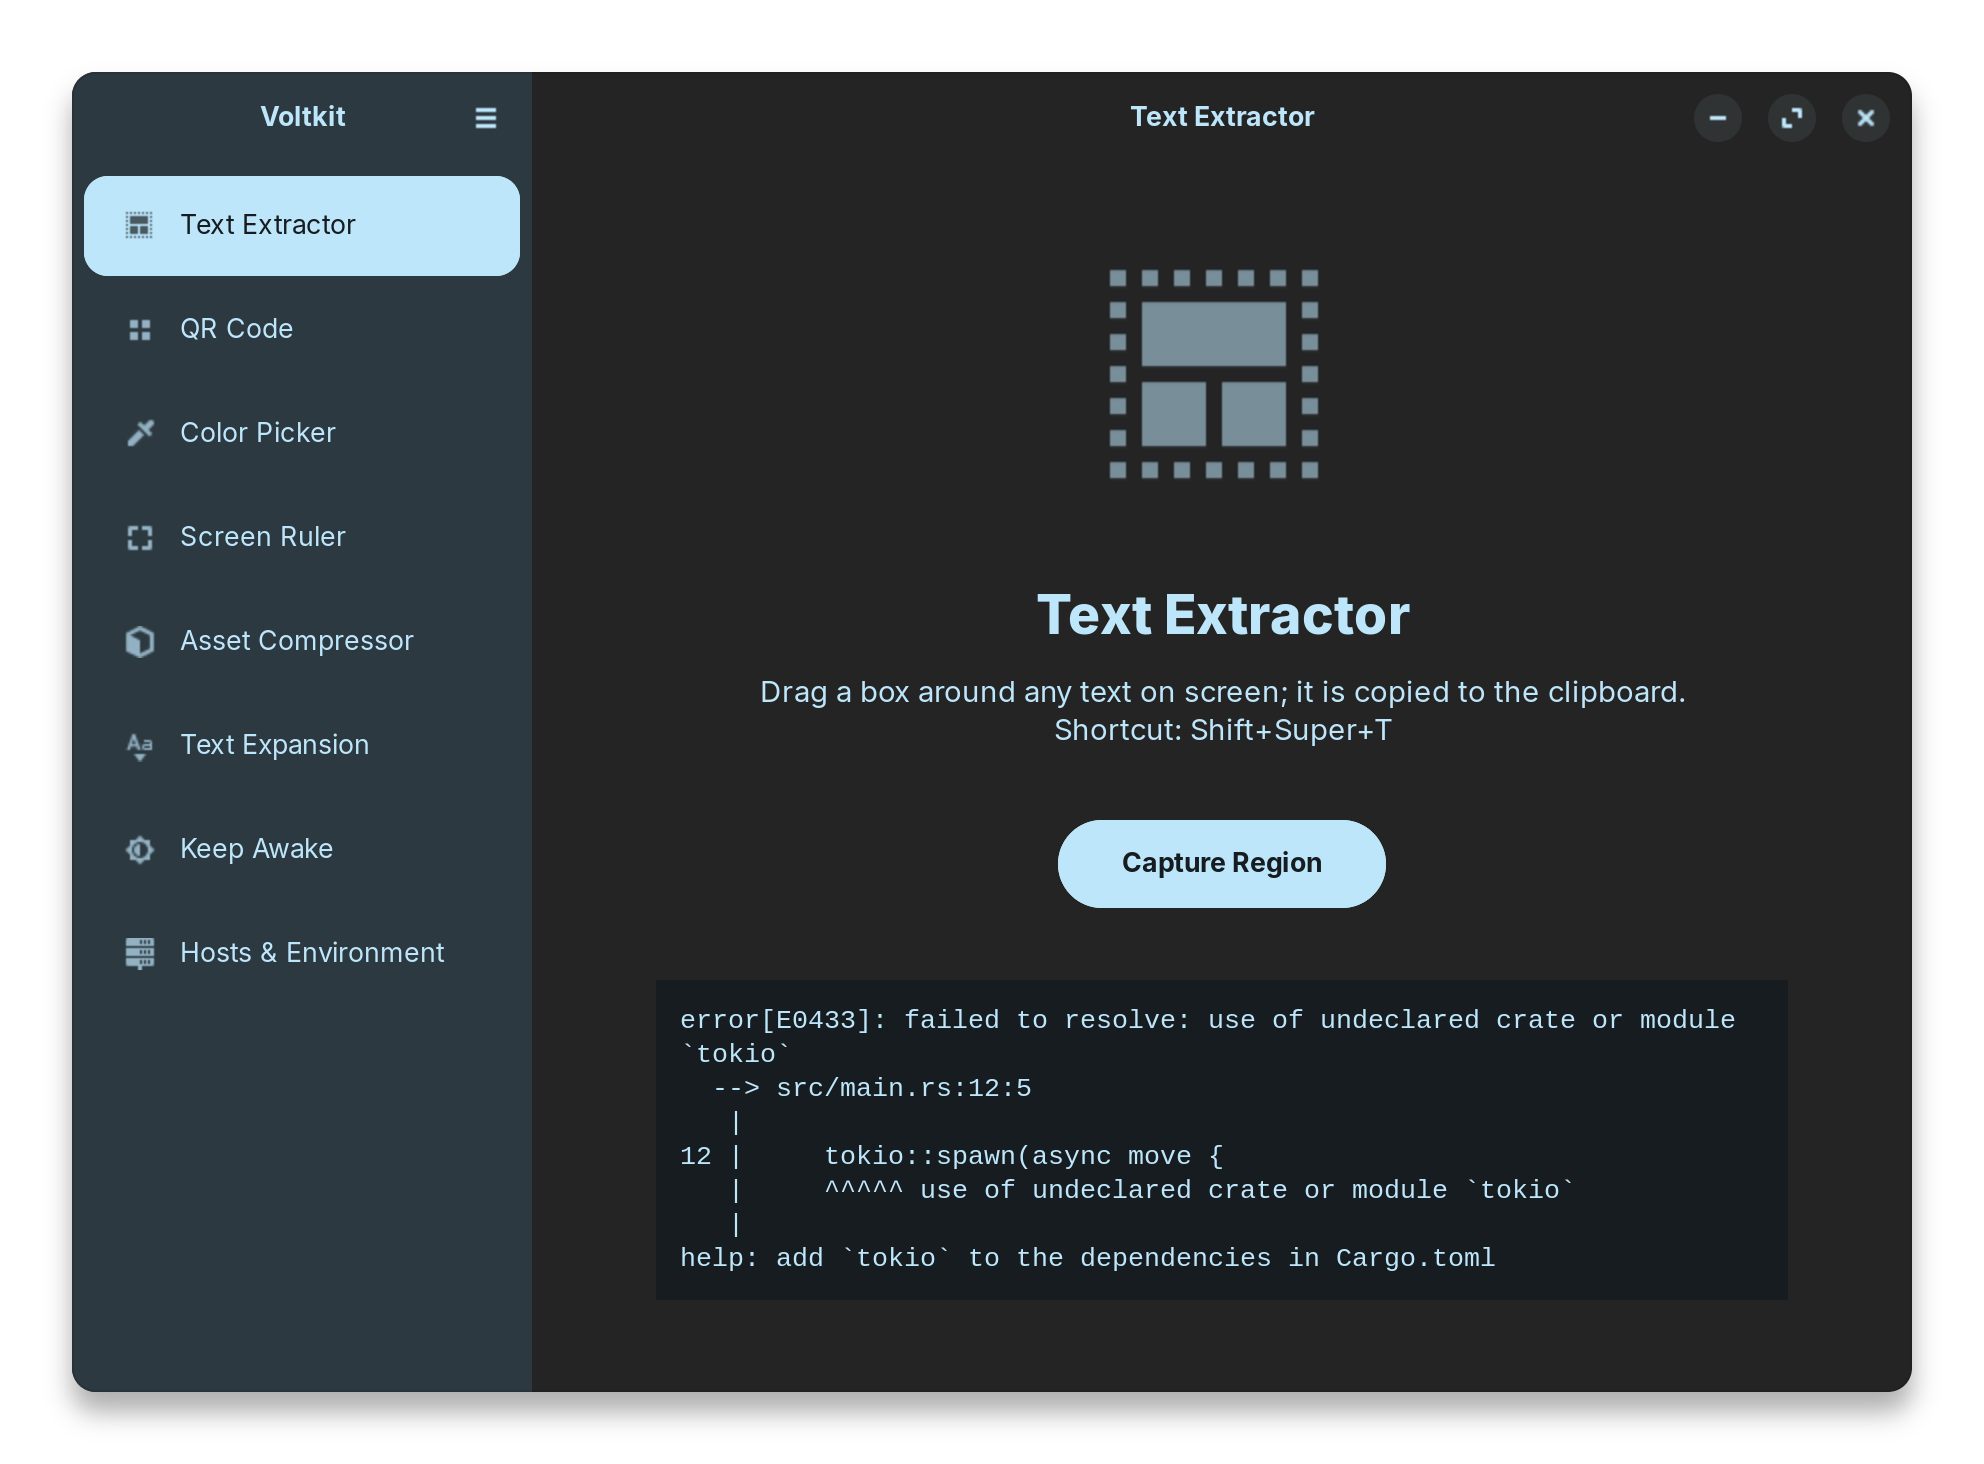
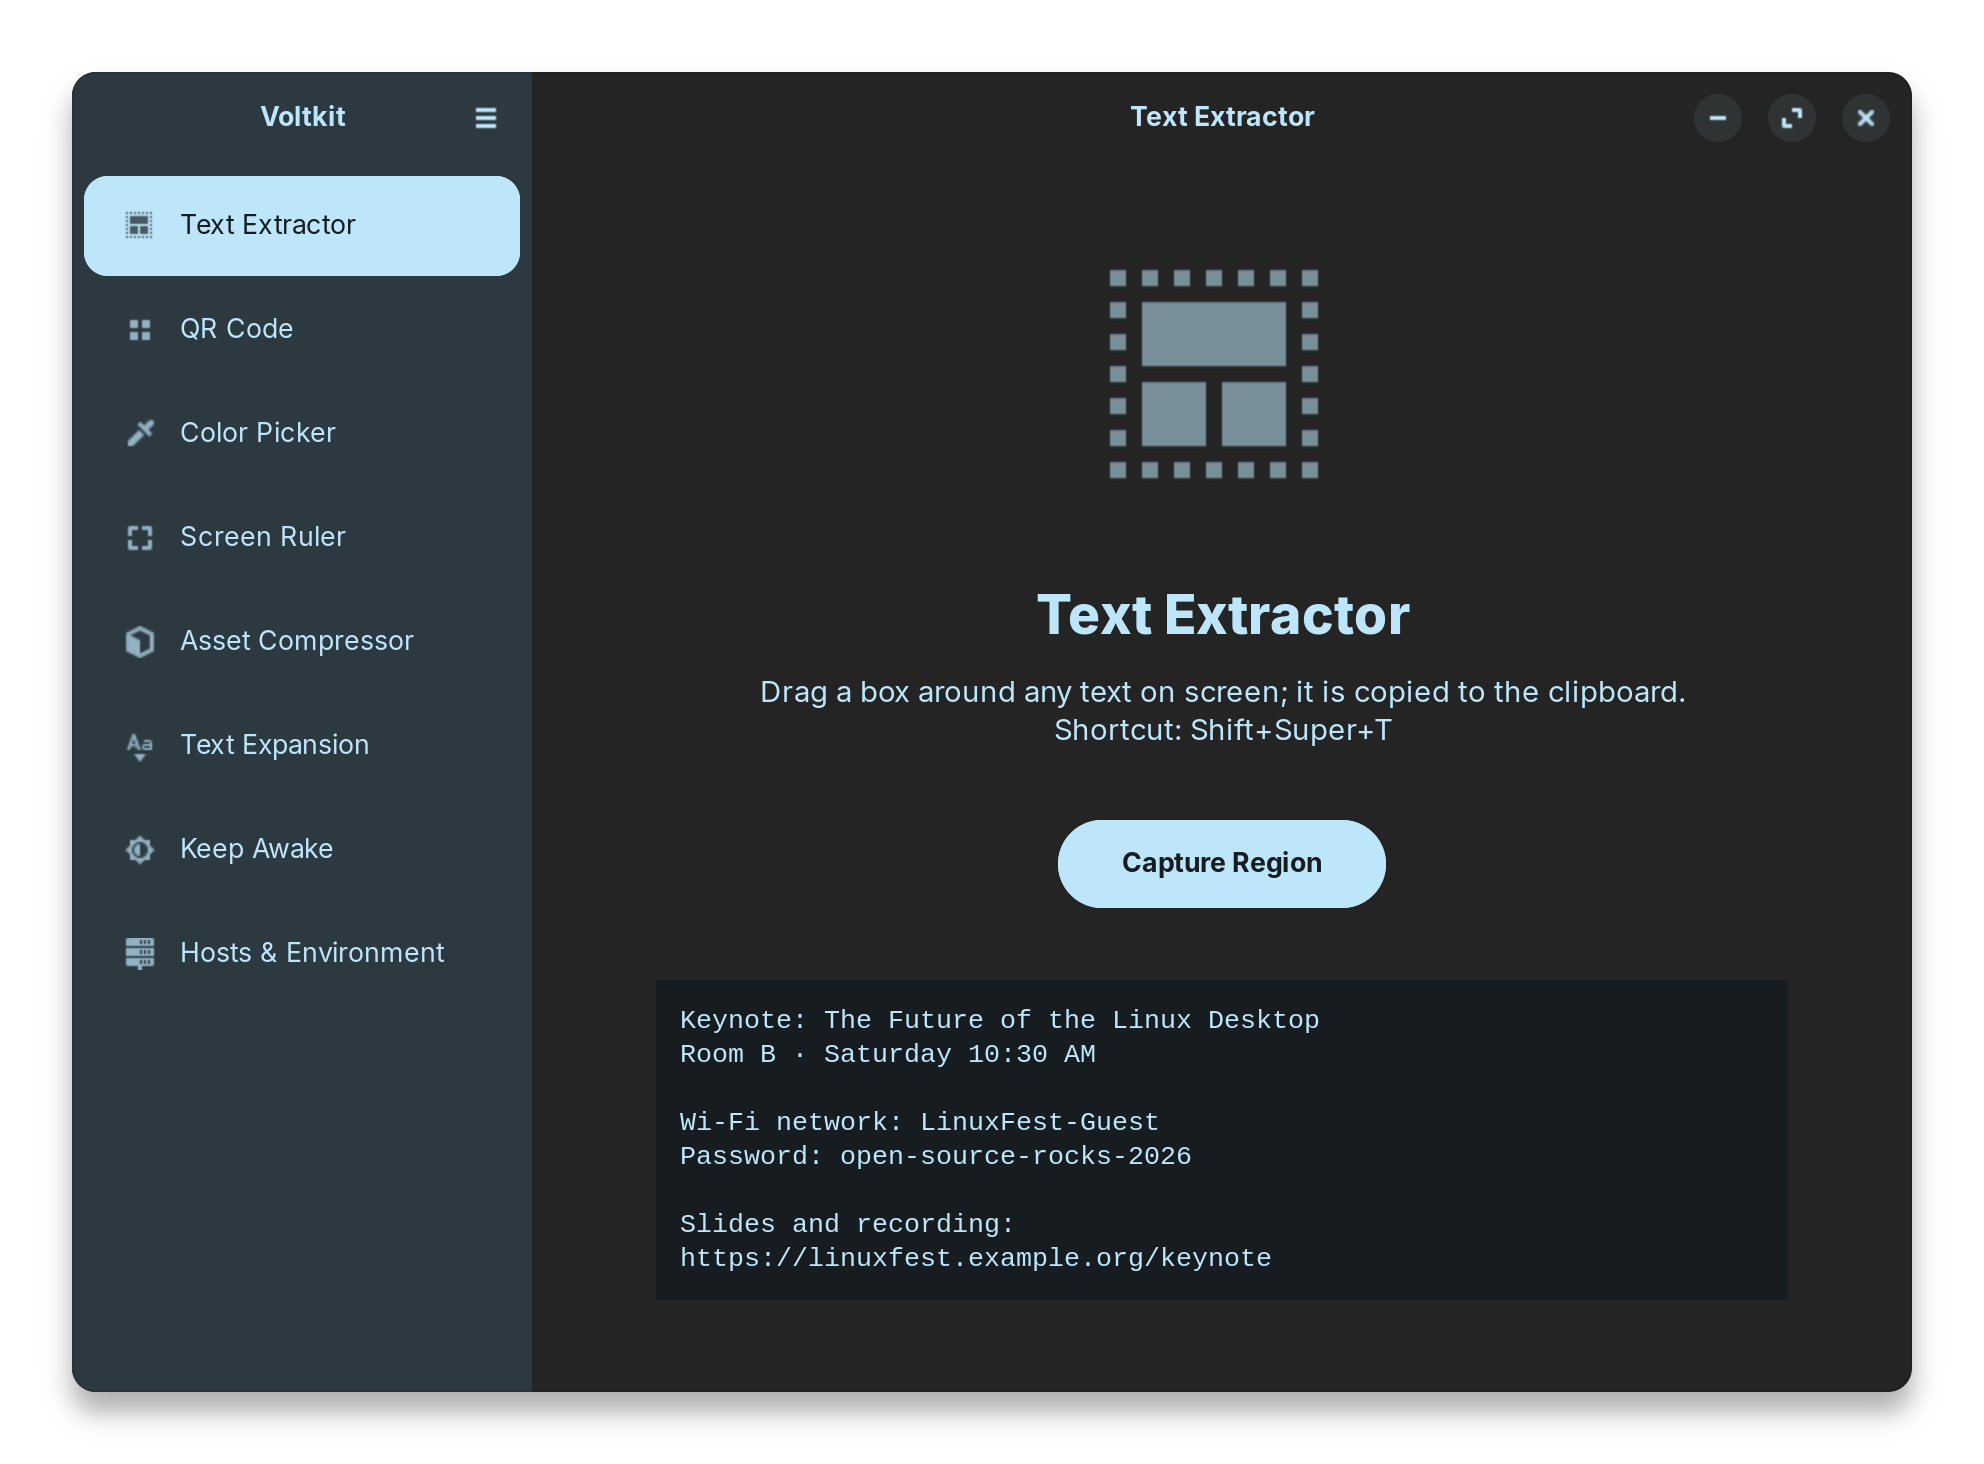
README: friendlier Text Extractor demo
The Text Extractor screenshot showed a made-up compiler error with file
paths, which read like someone's private work. It now shows text read
from a fictional conference slide (a Wi-Fi password and an example.org
link), which also shows why screen OCR is handy.

diff --git a/src/screenshots.rs b/src/screenshots.rs
@@ -20,14 +20,17 @@ const SCALE: f32 = 2.0;
 /// Time for layout, icons and the theme switch to settle before a capture.
 const SETTLE: Duration = Duration::from_millis(600);
 
+/// Text "read" from a photo of a conference slide: clearly fictional, and the
+/// kind of thing people actually want to copy (a password, a link).
 const OCR_DEMO: &str = "\
-error[E0433]: failed to resolve: use of undeclared crate or module `tokio`
-  --> src/main.rs:12:5
-   |
-12 |     tokio::spawn(async move {
-   |     ^^^^^ use of undeclared crate or module `tokio`
-   |
-help: add `tokio` to the dependencies in Cargo.toml";
+Keynote: The Future of the Linux Desktop
+Room B · Saturday 10:30 AM
+
+Wi-Fi network: LinuxFest-Guest
+Password: open-source-rocks-2026
+
+Slides and recording:
+https://linuxfest.example.org/keynote";
 
 /// File name, size before, size after, as measured on test files.
 const COMPRESS_DEMO: &[(&str, &str)] = &[

diff --git a/README.md b/README.md
@@ -41,13 +41,13 @@ hotkeys:
 
 ### 🔍 Copy text from anything on screen
 
-Error messages in a screenshot, code in a video tutorial, text in an image: press
+A Wi-Fi password on a conference slide, a command in a video tutorial, an error in a screenshot: press
 <kbd>Super</kbd>+<kbd>Shift</kbd>+<kbd>T</kbd>, drag a box, and paste. Powered by Tesseract, with support for
 [100+ languages](https://tesseract-ocr.github.io/tessdoc/Data-Files-in-different-versions.html).
 
 <picture>
   <source media="(prefers-color-scheme: dark)" srcset="docs/screenshots/ocr-dark.png">
-  <img src="docs/screenshots/ocr-light.png" alt="Text Extractor with recognized compiler error text">
+  <img src="docs/screenshots/ocr-light.png" alt="Text Extractor showing text read from a photo of a conference slide: a Wi-Fi password and a link">
 </picture>
 
 ### 🎨 Pick, convert and check colors
